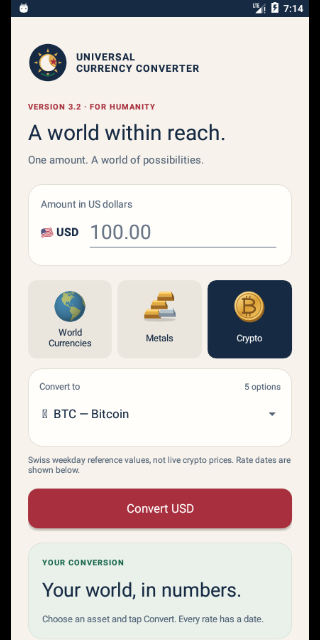
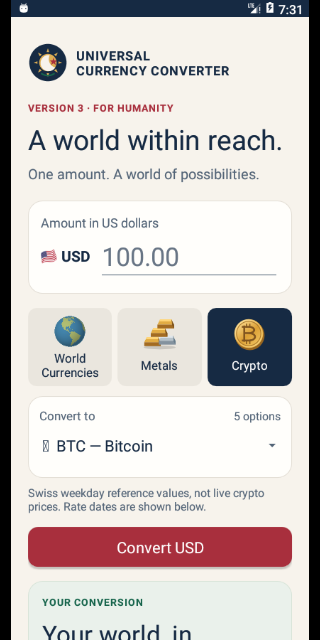
Keep Version 3 branding on the main screen
Use VERSION 3 · FOR HUMANITY in both previews while preserving 3.1 and 3.2 in About. Rebuild both APKs and refresh screenshots and checksums. Android 6 UI checks confirmed the main and About labels in each version; both builds pass lint and signature verification.

diff --git a/README.md b/README.md
@@ -8,6 +8,8 @@ Enter a USD amount, choose **World Currencies**, **Metals**, or **Crypto**, sele
 
 ## Version 3.2
 
+The main screen keeps **VERSION 3 · FOR HUMANITY**; About shows the precise 3.1 or 3.2 version. The static 3.1 APK was rebuilt from commit `859669e` with this same label update.
+
 Everything in 3.1, plus one gentle west-to-east globe revolution over ten seconds, resting on the Americas. Tap World Currencies to replay. The globe pauses in the background, when scrolled out of view, or while another category is selected. Disabling system animations keeps the globe static. No continuous spin, network request or animation library is needed.
 
 [Install 3.1 (static)](https://github.com/muhammad-abdulqayyum/Currency-Converter/raw/refs/heads/master/android-installer-file/Currency-Converter-3.1.apk) · [Install 3.2 (rotating)](https://github.com/muhammad-abdulqayyum/Currency-Converter/raw/refs/heads/master/android-installer-file/Currency-Converter-3.2.apk)
@@ -42,8 +44,8 @@ Both builds use the same debug certificate. They replace each other; installing 
 - Both 3.1 and 3.2 installed and launched on Android 6/API 23. Checked all three categories, the heritage flag footer, About credit, and upgrade from 3.1 to 3.2.
 - Native 3.2 frames confirm rotation and return to the identical 3.1 Americas view. With system animator duration scale set to zero, successive globe frames are identical. Also checked a narrow screen with larger text.
 - 21 JVM unit tests passed; Android lint completed without errors.
-- Version 3.2 debug APK measured 93,279 bytes.
-- Version 3.1 debug APK measured 90,799 bytes.
+- Version 3.2 debug APK measured 93,283 bytes.
+- Version 3.1 debug APK measured 90,803 bytes.
 - Earlier Version 3.0 validation: installed and launched on an Android 6.0/API 23 emulator. Exercised GBP, gold and BTC conversion screens with validated live-feed snapshots seeded into the local cache, and checked a narrow screen with enlarged text. No runtime crash was observed.
 - The separate live-feed check validated all 164 USD pairs. The emulator smoke check does not establish end-to-end network behavior on every supported phone.
 
